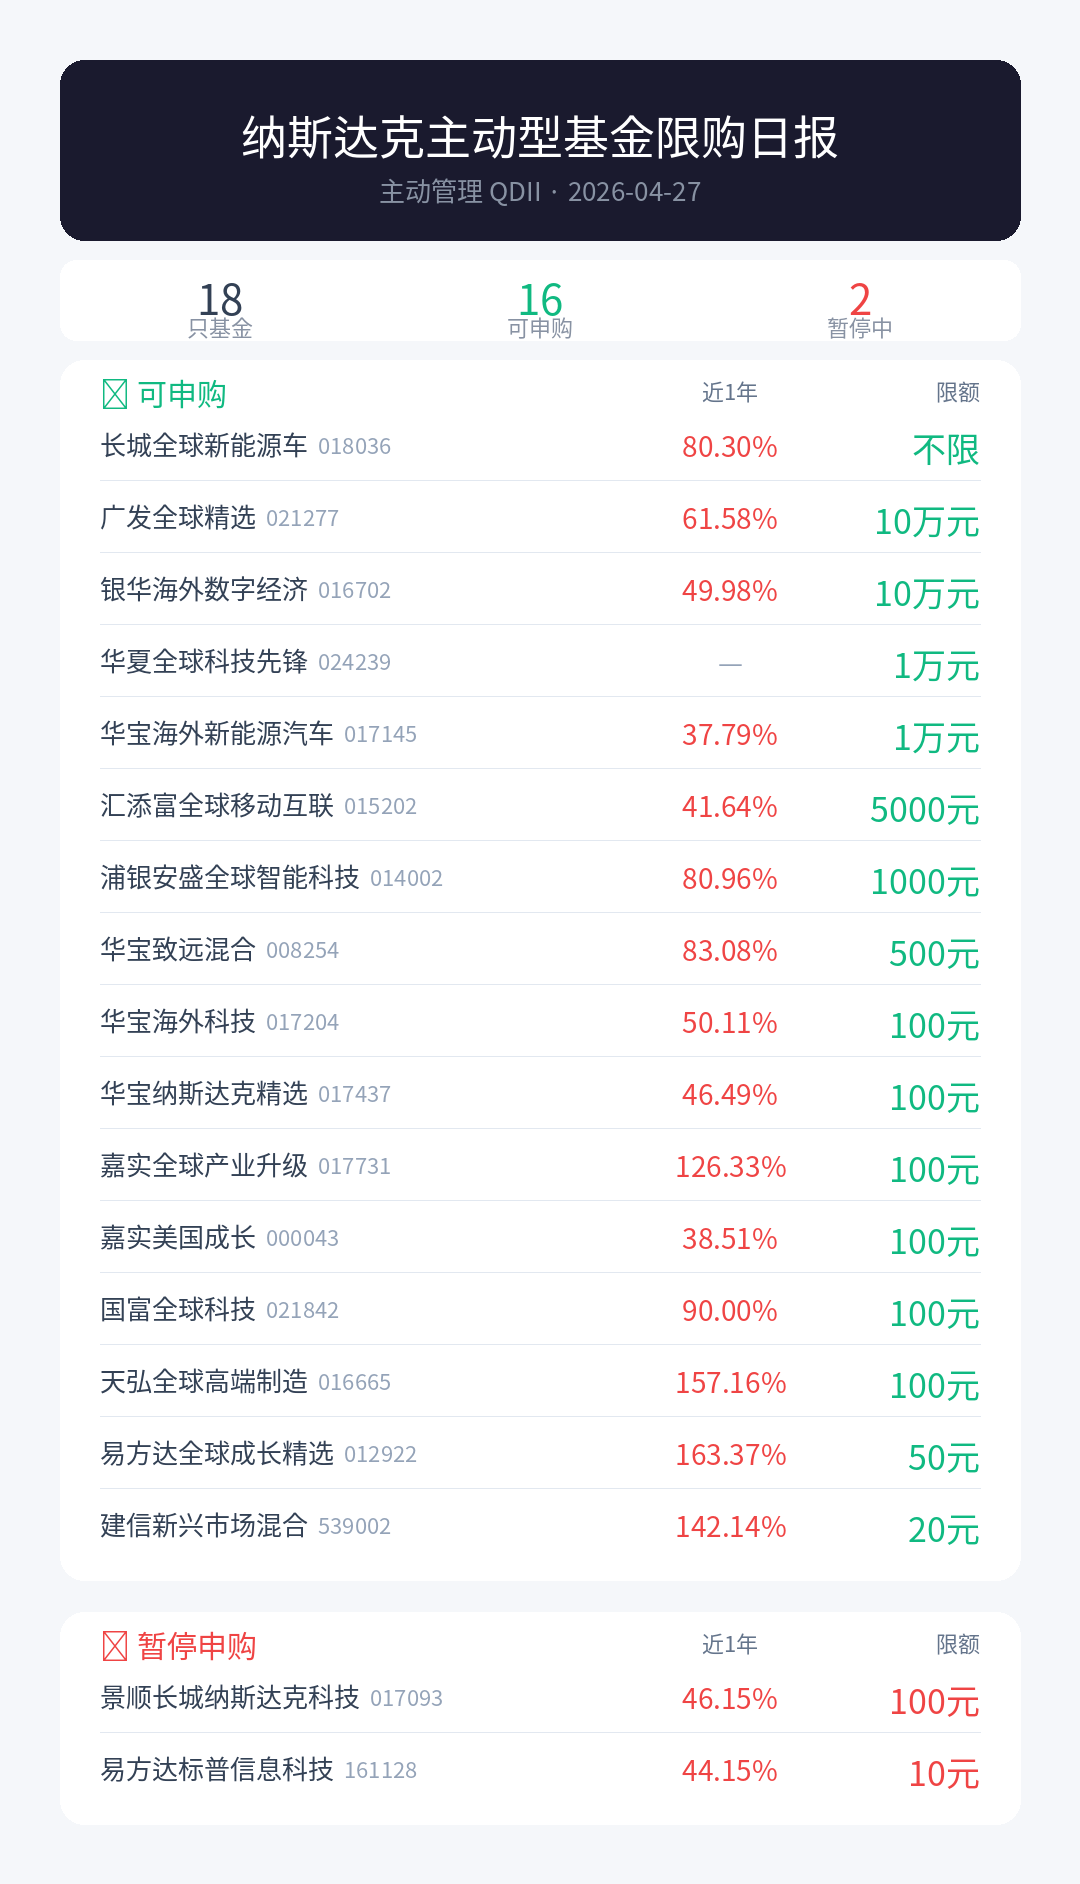
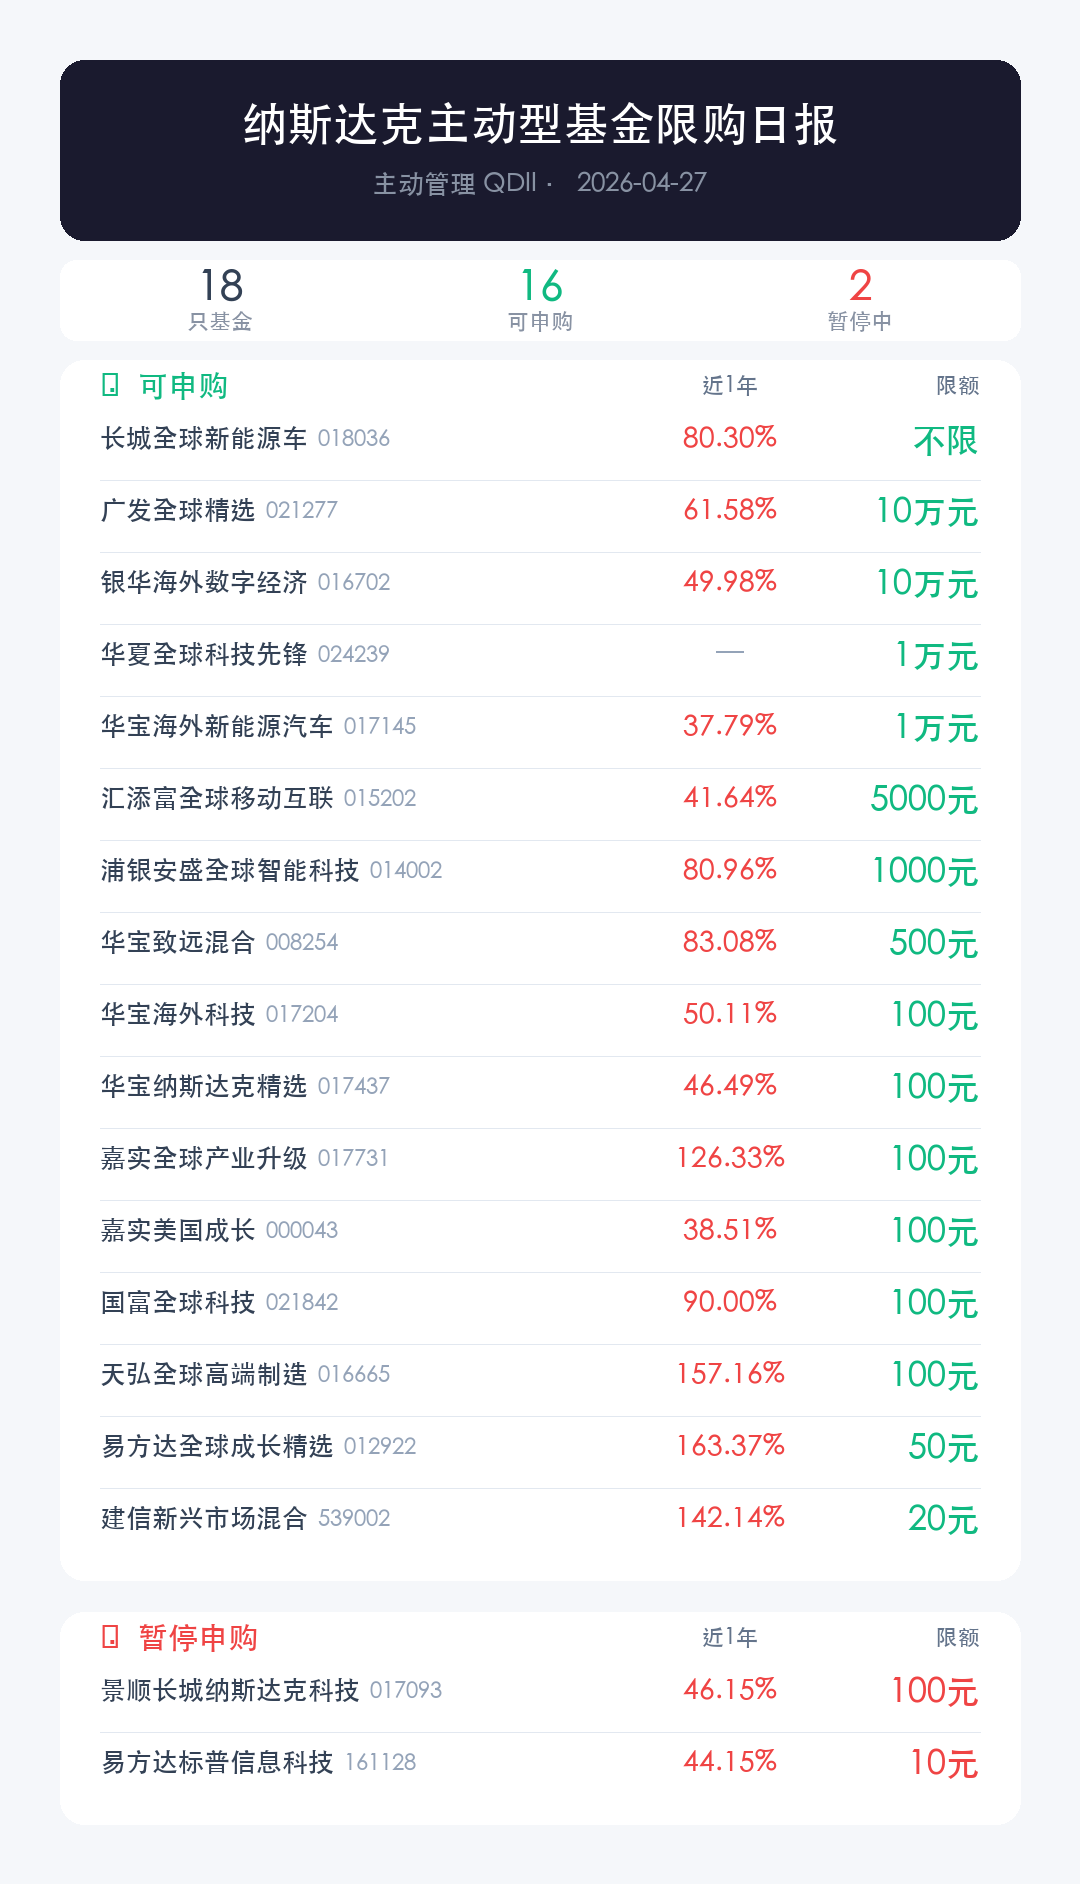
fix: 支持imgbb图床上传，解决国内无法访问GitHub图片
- 新增 imgbb 图床上传（国内可访问，免费）
- 优先用 imgbb，fallback 到 GitHub Pages
- workflow 简化为单步执行（上传在 Python 里完成）
- 需要在 GitHub Secrets 添加 IMGBB_API_KEY

diff --git a/fund_monitor/cli.py b/fund_monitor/cli.py
@@ -9,10 +9,9 @@ from fund_monitor.config import Config
 from fund_monitor.scraper import fetch_all
 from fund_monitor.history import History
 from fund_monitor.image import generate
-from fund_monitor.notifier import FeishuNotifier
+from fund_monitor.notifier import FeishuNotifier, upload_to_imgbb
 
-# 图片输出到 docs/ 目录，通过 GitHub Pages 提供国内可访问的链接
-IMAGE_DIR_NAME = "docs"
+IMAGE_DIR = "docs"
 
 
 def main():
@@ -28,17 +27,20 @@ def main():
         sys.exit(f"❌ 配置文件错误: {e}")
 
     date_str = datetime.now().strftime("%Y%m%d")
-    image_dir = os.path.join(root, IMAGE_DIR_NAME)
-    image_urls = []
+    image_dir = os.path.join(root, IMAGE_DIR)
+    image_paths = []  # 本地路径
+    image_urls = []   # 在线链接
 
-    # GitHub Pages 基础 URL
+    # GitHub Pages 基础 URL（备用）
     pages_base = ""
     if config.github_repo:
-        repo_name = config.github_repo.split("/")[-1]
-        owner = config.github_repo.split("/")[0]
+        owner, repo_name = config.github_repo.split("/")
         pages_base = f"https://{owner}.github.io/{repo_name}"
 
-    # 被动型基金
+    # imgbb API key（优先使用，国内可访问）
+    imgbb_key = os.environ.get("IMGBB_API_KEY") or config.imgbb_api_key
+
+    # ── 被动型基金 ──
     if config.passive_funds:
         funds = _filter(config.passive_funds, args.fund_codes)
         print(f"🚀 被动型基金：查询 {len(funds)} 只...")
@@ -49,13 +51,13 @@ def main():
 
         if not args.no_image:
             name = f"passive_{date_str}.png"
-            generate(results, os.path.join(image_dir, name),
+            path = os.path.join(image_dir, name)
+            generate(results, path,
                      title="纳斯达克被动型基金限购日报",
                      subtitle_prefix="指数基金 · C类份额")
-            if pages_base:
-                image_urls.append(f"{pages_base}/{name}")
+            image_paths.append(("passive", path, name))
 
-    # 主动型基金
+    # ── 主动型基金 ──
     if config.active_funds:
         funds = _filter(config.active_funds, args.fund_codes)
         print(f"\n🚀 主动型基金：查询 {len(funds)} 只...")
@@ -66,13 +68,27 @@ def main():
 
         if not args.no_image:
             name = f"active_{date_str}.png"
-            generate(results, os.path.join(image_dir, name),
+            path = os.path.join(image_dir, name)
+            generate(results, path,
                      title="纳斯达克主动型基金限购日报",
                      subtitle_prefix="主动管理 QDII")
-            if pages_base:
-                image_urls.append(f"{pages_base}/{name}")
+            image_paths.append(("active", path, name))
 
-    # 飞书通知
+    # ── 上传图片 ──
+    for tag, path, name in image_paths:
+        url = ""
+        if imgbb_key:
+            try:
+                url = upload_to_imgbb(path, imgbb_key)
+                print(f"📤 {tag} 图片已上传: {url}")
+            except Exception as e:
+                print(f"⚠ {tag} 图片上传失败: {e}")
+        if not url and pages_base:
+            url = f"{pages_base}/{name}"
+        if url:
+            image_urls.append(url)
+
+    # ── 飞书通知 ──
     if not args.no_notify:
         webhook = "" if args.dry_run else config.feishu_webhook
         FeishuNotifier(webhook).send_reminder(image_urls)

diff --git a/fund_monitor/notifier.py b/fund_monitor/notifier.py
@@ -10,8 +10,8 @@ class FeishuNotifier:
     def __init__(self, webhook_url: str):
         self.webhook_url = webhook_url
 
-    def send_reminder(self, image_urls: list[str] = None):
-        """发送每日提醒（含多张图片按钮）"""
+    def send_reminder(self, image_urls: list = None):
+        """发送每日提醒（含查看图片按钮）"""
         today = datetime.now().strftime("%Y-%m-%d")
         title = f"📊 纳斯达克基金限购日报 {today}"
 
@@ -76,3 +76,26 @@ class FeishuNotifier:
                 print(f"⚠ 飞书 HTTP {resp.status_code}: {resp.text}")
         except Exception as e:
             print(f"⚠ 飞书推送失败: {e}")
+
+
+def upload_to_imgbb(image_path: str, api_key: str) -> str:
+    """
+    上传图片到 imgbb，返回直链 URL。
+    imgbb 免费版支持匿名上传，国内可访问。
+
+    需要在 https://api.imgbb.com/ 注册获取免费 API key。
+    """
+    import base64
+    with open(image_path, "rb") as f:
+        b64 = base64.b64encode(f.read()).decode()
+
+    resp = requests.post(
+        "https://api.imgbb.com/1/upload",
+        data={"key": api_key, "image": b64},
+        timeout=30,
+    )
+    resp.raise_for_status()
+    data = resp.json()
+    if data.get("success"):
+        return data["data"]["url"]
+    raise RuntimeError(f"imgbb upload failed: {data}")

diff --git a/fund_monitor/config.py b/fund_monitor/config.py
@@ -12,6 +12,7 @@ class Config:
     active_funds: list[dict] = field(default_factory=list)
     history_file: str = "data/history.json"
     github_repo: str = ""
+    imgbb_api_key: str = ""
 
     @classmethod
     def load(cls, path: str) -> "Config":
@@ -32,4 +33,5 @@ class Config:
             active_funds=raw.get("active_funds", []),
             history_file=raw.get("history_file", "data/history.json"),
             github_repo=raw.get("github_repo", ""),
+            imgbb_api_key=raw.get("imgbb_api_key", ""),
         )
